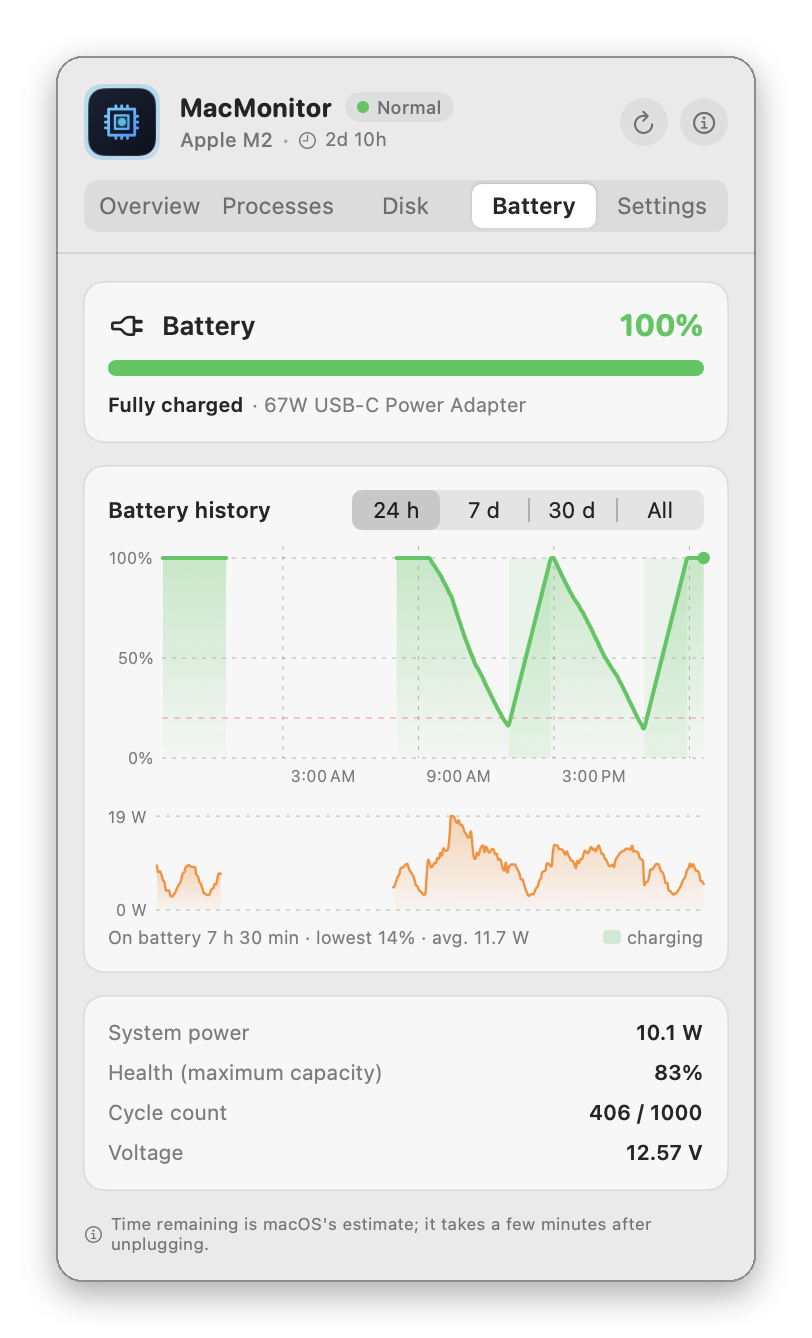
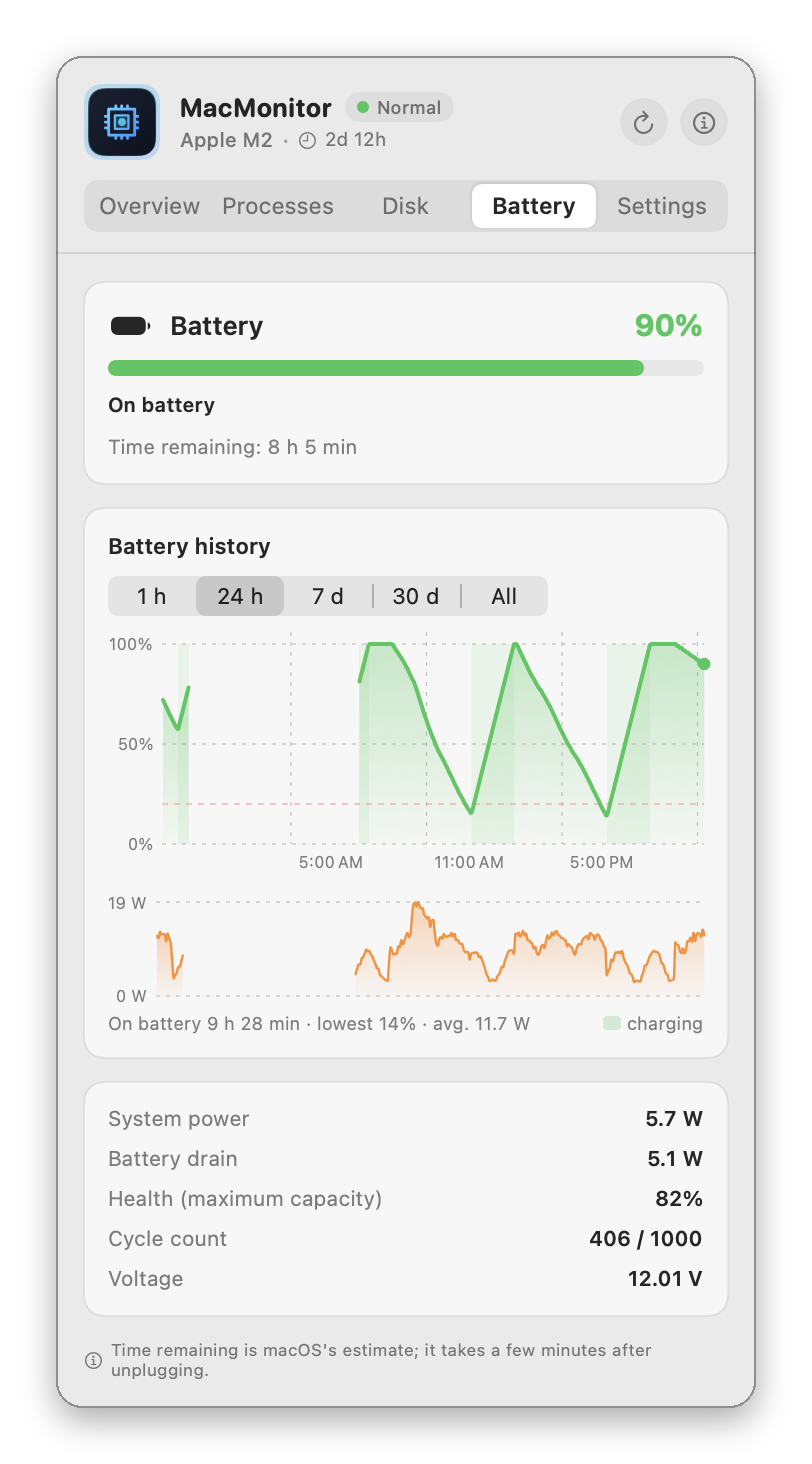
Battery history: last hour view; version 1.2.1
The range picker gets its own row so five ranges fit; the hour view
labels quarter hours on the clock.

diff --git a/Sources/Views/BatteryHistoryChart.swift b/Sources/Views/BatteryHistoryChart.swift
@@ -5,9 +5,11 @@ public struct BatteryHistoryChart: View {
     @ObservedObject var settings: AppSettings
 
     enum Range: Int, CaseIterable {
-        case day, week, month, all
+        // Raw values are stored in the settings, so new ranges get new numbers
+        case day = 0, week = 1, month = 2, all = 3, hour = 4
         var seconds: TimeInterval? {
             switch self {
+            case .hour: return 3_600
             case .day: return 86_400
             case .week: return 7 * 86_400
             case .month: return 30 * 86_400
@@ -46,11 +48,12 @@ public struct BatteryHistoryChart: View {
     public var body: some View {
         let model = prepare()
         VStack(alignment: .leading, spacing: 8) {
+            // Five ranges do not fit next to the title, so the picker gets its own row
+            Text(settings.t("Pil geçmişi", "Battery history"))
+                .font(.system(size: 11, weight: .semibold))
             HStack {
-                Text(settings.t("Pil geçmişi", "Battery history"))
-                    .font(.system(size: 11, weight: .semibold))
-                Spacer()
                 Picker("", selection: $rangeRaw) {
+                    Text(settings.t("1 sa", "1 h")).tag(Range.hour.rawValue)
                     Text(settings.t("24 sa", "24 h")).tag(Range.day.rawValue)
                     Text(settings.t("7 gün", "7 d")).tag(Range.week.rawValue)
                     Text(settings.t("30 gün", "30 d")).tag(Range.month.rawValue)
@@ -59,7 +62,6 @@ public struct BatteryHistoryChart: View {
                 .pickerStyle(.segmented)
                 .controlSize(.small)
                 .labelsHidden()
-                .fixedSize()
             }
 
             if model.points.count < 2 {
@@ -174,14 +176,27 @@ public struct BatteryHistoryChart: View {
 
     private var axisFormat: Date.FormatStyle {
         switch range {
-        case .day: return Date.FormatStyle.dateTime.hour().minute().locale(locale)
+        case .hour, .day: return Date.FormatStyle.dateTime.hour().minute().locale(locale)
         case .week: return Date.FormatStyle.dateTime.weekday(.abbreviated).locale(locale)
         case .month, .all: return Date.FormatStyle.dateTime.day().month(.abbreviated).locale(locale)
         }
     }
 
+    /// On the clock's quarter hours (:00, :15, :30, :45), not counted from the window's start
+    private func quarterHours(_ model: Model) -> [Date] {
+        let quarter: TimeInterval = 15 * 60
+        var t = (model.start.timeIntervalSinceReferenceDate / quarter).rounded(.up) * quarter
+        var dates: [Date] = []
+        while t <= model.end.timeIntervalSinceReferenceDate {
+            dates.append(Date(timeIntervalSinceReferenceDate: t))
+            t += quarter
+        }
+        return dates
+    }
+
     private var axisValues: AxisMarkValues {
         switch range {
+        case .hour: return .stride(by: .minute, count: 15)
         case .day: return .stride(by: .hour, count: 6)
         case .week: return .stride(by: .day)
         case .month: return .stride(by: .day, count: 7)
@@ -190,7 +205,7 @@ public struct BatteryHistoryChart: View {
     }
 
     private var hoverFormat: Date.FormatStyle {
-        (range == .day ? Date.FormatStyle.dateTime.hour().minute()
+        (range == .day || range == .hour ? Date.FormatStyle.dateTime.hour().minute()
                        : Date.FormatStyle.dateTime.day().month(.abbreviated).hour().minute()).locale(locale)
     }
 
@@ -247,11 +262,21 @@ public struct BatteryHistoryChart: View {
             }
         }
         .chartXAxis {
-            AxisMarks(values: axisValues) { value in
-                AxisGridLine(stroke: StrokeStyle(lineWidth: 0.5, dash: [2, 3]))
-                // A label right at the edge would be cut off
-                if let d = value.as(Date.self), model.end.timeIntervalSince(d) > model.end.timeIntervalSince(model.start) * 0.1 {
-                    AxisValueLabel(format: axisFormat).font(.system(size: 8))
+            if range == .hour {
+                AxisMarks(values: quarterHours(model)) { value in
+                    AxisGridLine(stroke: StrokeStyle(lineWidth: 0.5, dash: [2, 3]))
+                    // A label right at the edge would be cut off
+                    if let d = value.as(Date.self), model.end.timeIntervalSince(d) > model.end.timeIntervalSince(model.start) * 0.1 {
+                        AxisValueLabel(format: axisFormat).font(.system(size: 8))
+                    }
+                }
+            } else {
+                AxisMarks(values: axisValues) { value in
+                    AxisGridLine(stroke: StrokeStyle(lineWidth: 0.5, dash: [2, 3]))
+                    // A label right at the edge would be cut off
+                    if let d = value.as(Date.self), model.end.timeIntervalSince(d) > model.end.timeIntervalSince(model.start) * 0.1 {
+                        AxisValueLabel(format: axisFormat).font(.system(size: 8))
+                    }
                 }
             }
         }

diff --git a/README.md b/README.md
@@ -92,7 +92,7 @@ Shown only on Macs with a battery.
 - **Time remaining** until empty or full, as macOS estimates it.
 - **Power:** what the whole Mac draws right now, in watts, and the power going into or out of the battery.
 - **Health and cycles:** maximum capacity (the same figure as System Settings) and cycle count against the battery's design cycles.
-- **Battery history:** a chart of the charge level, with charging periods and system power below it, over 24 hours, 7 days, 30 days or everything recorded, with values under the pointer and a summary (time on battery, lowest level, average power). MacMonitor records once a minute, also with the panel closed, and keeps 90 days; macOS itself shows only the last 24 hours.
+- **Battery history:** a chart of the charge level, with charging periods and system power below it, over the last hour, 24 hours, 7 days, 30 days or everything recorded, with values under the pointer and a summary (time on battery, lowest level, average power). MacMonitor records once a minute, also with the panel closed, and keeps 90 days; macOS itself shows only the last 24 hours.
 
 ### Light on resources
 
@@ -177,7 +177,7 @@ Click MacMonitor in the menu bar and open the **Disk** tab. It shows free, used 
 
 ### How do I check my Mac's battery health and charge history?
 
-Open MacMonitor's **Battery** tab. It shows the charge, time remaining, power draw, battery health (the same "Maximum Capacity" as System Settings) and cycle count, and a chart of the charge level and system power over the last 24 hours, 7 days, 30 days or everything recorded. macOS itself only shows the last 24 hours.
+Open MacMonitor's **Battery** tab. It shows the charge, time remaining, power draw, battery health (the same "Maximum Capacity" as System Settings) and cycle count, and a chart of the charge level and system power over the last hour, 24 hours, 7 days, 30 days or everything recorded. macOS itself only shows the last 24 hours.
 
 ### Does MacMonitor keep a battery history when the panel is closed?
 
